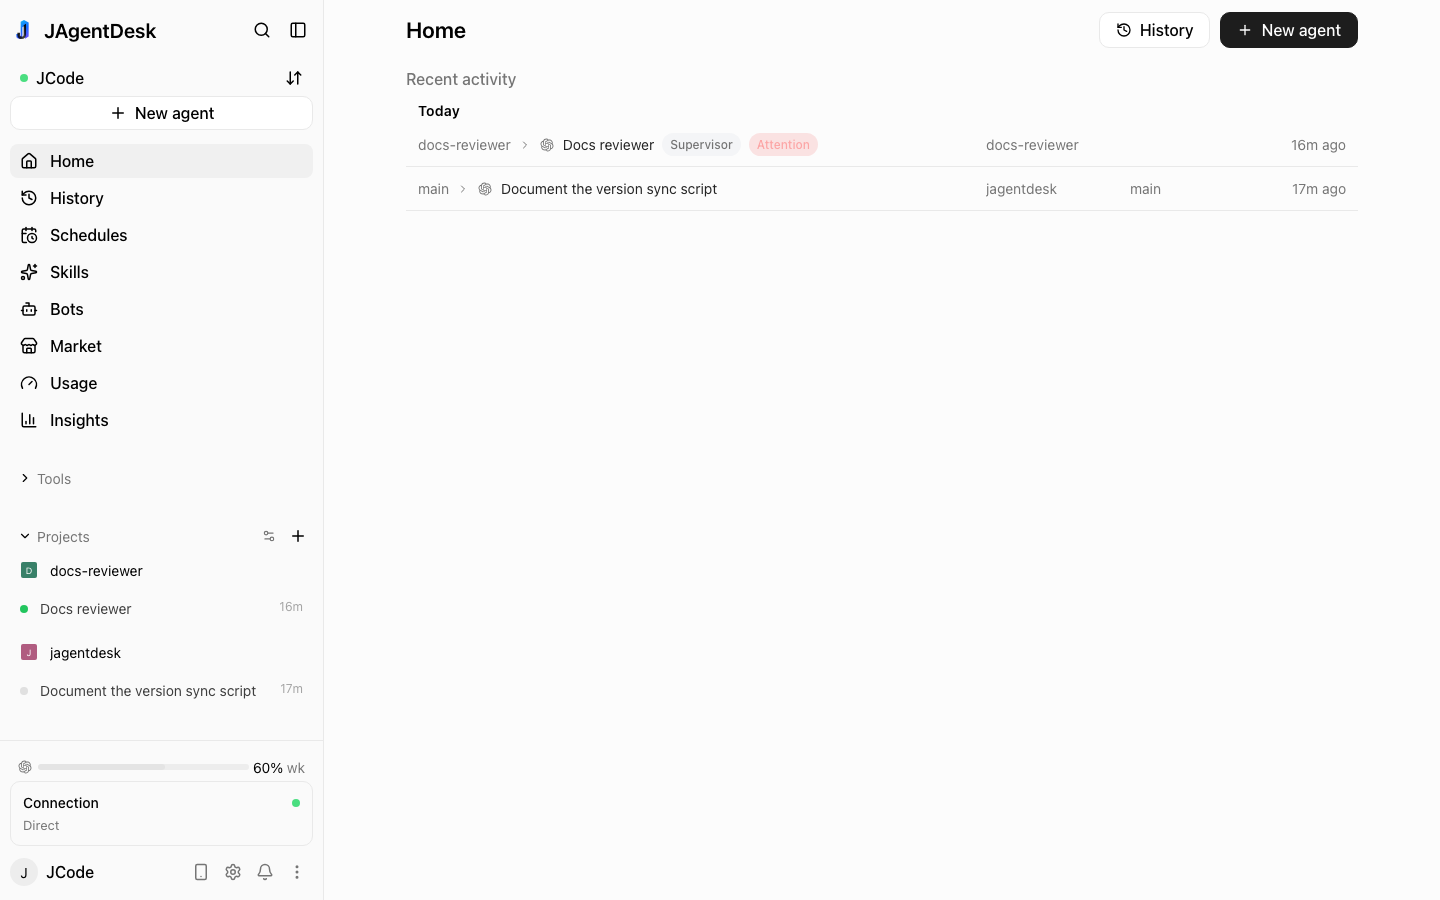
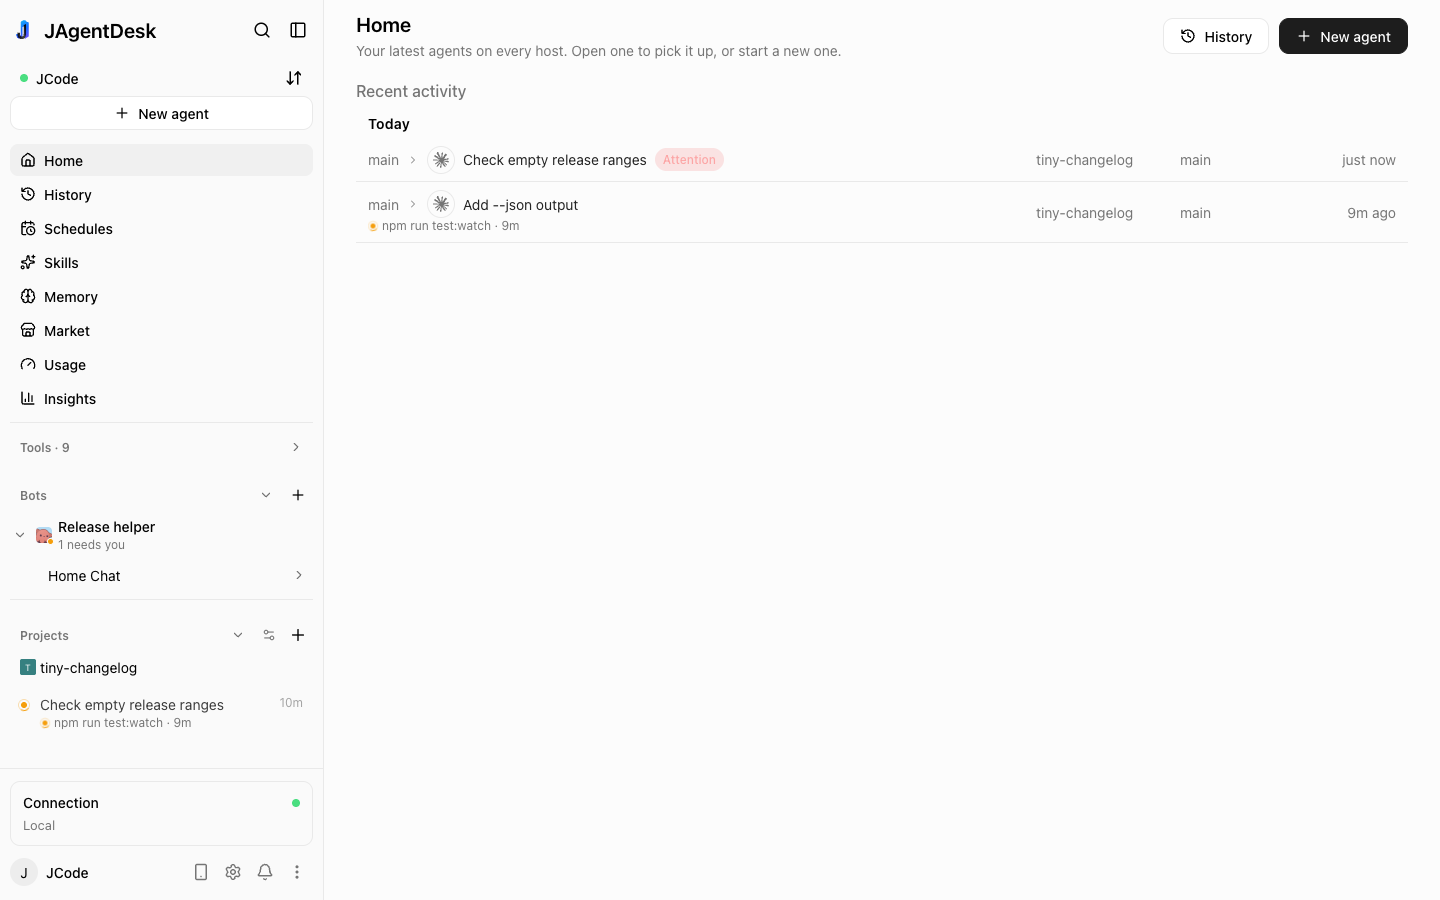
docs: README and docs for v0.12
README:
- Rewrite "Bots replace Team mode" for the v0.12 bots: sidebar section with
  mascots, status and chat/worker tree; the bot page (Home Chat with Home,
  Connectors, Chats and Files); items with quick answers; Look around and
  Tidy memory on by default and shown on every run; templates; Hand to
  bot; optional Review before done; phones; GitHub, GitLab, Telegram and
  Slack connectors; share by link (needs the relay Worker's R2 bucket).
- Feature list: tracker pills above the composer and background task
  details with live output; Settings by This device and Host; Memory in
  the built-in list.
- Add "New in v0.12.1" (Devices, Clusters, Data and Workbench crash fix).
- Retake home, chat, bots, plugins, phone-chat, phone-drawer and
  phone-settings; add background-task.png. All taken from the built web
  UI against an isolated daemon with real Claude Haiku turns in a small
  demo repository and a "Release helper" bot made through the app.

docs/product.md: current state is v0.12.1 (context-keeping agents, Memory,
Orca-style bots with connectors and sharing, background task details,
the pill rail, the Paseo 0.17.6 Settings map).

docs/README.md and CLAUDE.md: bots.md descriptions now cover the layout,
connectors and sharing; agent-lifecycle.md mentions background task
detail and output; the CLAUDE.md release-notes row points at v0.12.1.

diff --git a/README.md b/README.md
@@ -23,7 +23,8 @@ Jira, Argo CD, forges and devices, Bots, and connected hosts.
 ## What can it do?
 
 - **Run and steer agents remotely** — start agents, send prompts, watch replies and tool calls stream
-  in, interrupt, queue or steer, review diffs, all from desktop or phone.
+  in, interrupt, queue or steer, review diffs, all from desktop or phone. Background tasks, subagents and tasks show as
+  pills in one row above the composer; tap a background task for its command, status and live output.
 - **Many providers** — Claude Code, Codex, GitHub Copilot, OpenCode, Pi and OMP, ACP agents, bundled
   provider plugins (Antigravity, Muse Code, Hoplite, fx, goose, Hermes) and your own OpenAI- or
   Anthropic-compatible model servers. Model, effort and permission controls sit in the composer. Every
@@ -44,21 +45,31 @@ Jira, Argo CD, forges and devices, Bots, and connected hosts.
   token and cost insights.
 - **Built-in tools, each a plugin you can switch off per host** — Docker, Kubernetes, Databases, Argo CD,
   SSH servers, Remote tasks, Custom API providers, Jira, Forge Hub, Devices & simulators, Workbench,
-  Skills, Spec mode, Autonomous run, Insights, Session sharing and Agentic browser.
+  Skills, Memory, Spec mode, Autonomous run, Insights, Session sharing and Agentic browser.
 - **Orchestration** — Supervisor → Lead → Peer runtime; agents can list, create and message each other.
 - **Plugins and Marketplace** — extend the app with screens, sidebar items, panels, composer items,
   timeline rows and themes; install from the Marketplace, a folder, Git or npm. Paseo plugins are
   rebranded on install.
 - **Schedules, heartbeats and loops**, voice input, a CLI (`jagentdesk`), and a UI in nine languages.
+- **Settings by This device and Host** — what is stored on the device you hold (appearance, sidebar, chat, saved hosts) is
+  kept apart from each daemon's settings (providers, agents, plugins, pairing).
 
 ---
+
+## ✨ New in v0.12.1
+
+Devices, Clusters, Data and Workbench open again. In v0.12.0 their embedded agent chat crashed the screen with "Something went
+wrong — Error: Invariant failed" as soon as it showed. Details: **[docs/releases/v0.12.1.md](docs/releases/v0.12.1.md)**.
 
 ## ✨ New in v0.12.0
 
 Bots rebuilt the way Orca does them — a Bots section in the sidebar, a bot page with its Home Chat and activity panel, workers
 in their own worktrees, items with quick answers, templates and mascots, on desktop and phones — reachable from GitHub, GitLab
-and Telegram and shareable by link. Background tasks open into a detail view with live output. Details:
+and Telegram and shareable by link. Background tasks open into a detail view with live output, and the trackers above the
+composer are one row of pills. Settings are organised by This device and Host. Details:
 **[docs/releases/v0.12.0.md](docs/releases/v0.12.0.md)**.
+
+![A background task's details with its live output](docs/images/background-task.png)
 
 ## ✨ New in v0.11.1
 
@@ -87,7 +98,7 @@ your plan usage, the connection card and Pair device / Settings / Notifications 
 workspace drills the sidebar into Agents, Terminals, Files and Changes. ⌘\ / Ctrl+\ hides it. Gumloop
 is the default theme; the other colour themes in Settings → Appearance keep the classic layout.
 
-![A Codex agent's reply with its tool calls grouped under it](docs/images/chat.png)
+![An agent's reply with its tool calls grouped under it](docs/images/chat.png)
 
 Completed turns fold behind a **"Worked for …"** summary and tool calls group under the reply. The
 composer carries the model, effort and permission controls, skills from the `/` menu, and a fullscreen
@@ -96,12 +107,12 @@ mode. Changes shows each edit as a selectable diff.
 ![The Changes view with the agent's edit](docs/images/changes.png)
 
 On phones there is no tab bar any more: the sidebar opens as a drawer, panes open as sheets, and
-Settings are grouped tiles.
+Settings are grouped tiles under This device and Host.
 
 <p>
   <img src="docs/images/phone-drawer.png" alt="Phone: the drawer" width="260" />
   <img src="docs/images/phone-chat.png" alt="Phone: a chat with the agent's reply" width="260" />
-  <img src="docs/images/phone-settings.png" alt="Phone: Settings as tiles" width="260" />
+  <img src="docs/images/phone-settings.png" alt="Phone: Settings under This device and Host" width="260" />
 </p>
 
 ### Built-in plugins with a switch per host
@@ -114,12 +125,32 @@ stays. Autonomous run, Session sharing and Agentic browser are off until you tur
 
 ### Bots replace Team mode
 
-A bot has its own identity, chat, items, memory, schedules and settings. It hands real work to worker
-agents in their own worktrees, and a BA / Tester / Pentester cross-review checks the result before the bot
-reports back. When it needs you, the item asks with quick answers. Bots can also talk in Slack through the
-relay.
+A bot is a long-lived assistant with its own soul (SOUL.md), memory, chats, items, automations and settings. Since v0.12.0
+bots look and work the way Orca's do, on desktop and on phones.
 
-![A bot answering in its chat](docs/images/bots.png)
+![A bot's Home Chat with its Home panel](docs/images/bots.png)
+
+- **Bots in the sidebar**, above Projects: each bot with its mascot, a status line (Needs you, Working, Paused, Idle) and its
+  chats and workers nested underneath. The `+` menu has New bot, Templates and From a link.
+- **The bot page** is its Home Chat with a panel beside it: **Home** (Needs you first, items by status, Automations,
+  Suggestions), **Connectors**, **Chats** (each chat with its workers) and **Files** (the bot's home folder).
+- **How it works:** the bot plans, starts worker agents in their own worktrees for code changes and is woken when a worker
+  finishes or asks. Work is tracked as items; an item that needs you asks with quick answers and a recommended choice.
+- **Look around** reads the bot's projects and connected apps and suggests what to do next; **Tidy memory** merges and
+  archives old memory lines overnight. Both are on by default for bots on Claude or Codex, and every run shows in the bot's
+  chat and under Automations; turn either off in the bot's settings.
+- **Templates** start from 11 ready-made bots (pull request review, dependency updates, release readiness, release notes and
+  more). **Hand to bot** gives a workspace to a bot with a note on what to do.
+- **Review before done** _(optional, off by default)_: BA, Tester and Pentester reviews must pass before an item is done.
+- **Phones:** Bots in the drawer, the bot page with its panel as a sheet, quick replies to Needs you and long-press item
+  actions.
+- **Connectors:** reach a bot from GitHub and GitLab (webhooks), Telegram and Slack. Mention the bot and it answers in the
+  thread. Events travel through your own relay Worker; tokens stay in the daemon's secret store.
+- **Share by link:** the bot's soul, skills, automations and, if you pick them, memory notes go into a bundle encrypted on
+  your machine; the key lives only in the link. Sharing needs an R2 bucket on your relay Worker (see the
+  [v0.12.0 upgrade notes](docs/releases/v0.12.0.md#upgrade-notes)).
+
+Details: [docs/bots.md](docs/bots.md).
 
 ### Encrypted relay alongside Tailscale
 

diff --git a/docs/product.md b/docs/product.md
@@ -68,15 +68,18 @@ Anyone who builds software:
 3. **The daemon as infrastructure.** Server/client architecture enables deployment anywhere.
 4. **Open source outlasts funding.** Open source communities are resilient. Contributors become advocates.
 
-## Current state (v0.10.0)
+## Current state (v0.12.1)
 
 - Desktop (Electron), mobile (iOS/Android, Expo 57 / React Native 0.86), web, CLI
 - Built-in providers: Claude Code (Agent SDK), Codex (app-server), GitHub Copilot (ACP), OpenCode, Pi, OMP. More ship as bundled provider plugins, plus a one-click ACP catalog and custom ACP or API providers ([providers.md](providers.md), [custom-providers.md](custom-providers.md))
-- Gumloop look: one desktop sidebar, a drawer on phones, and Settings grouped into tiles on phones ([themes.md](themes.md))
-- Features are built-in plugins that each host turns on or off under Settings → host → Plugins: Docker, Kubernetes, Databases, Argo CD, SSH servers, Remote tasks, Custom API providers, Jira, Forge Hub, Devices & simulators, Workbench, Skills, Spec mode, Insights, and Bots. Autonomous run, Session sharing and Agentic browser start off ([builtin-plugins.md](builtin-plugins.md))
+- Gumloop look: one desktop sidebar, a drawer on phones, and Settings grouped into tiles on phones ([themes.md](themes.md)). Settings follow Paseo 0.17.6's map: **This device** (stored on the device you hold) and **Host** (the daemon's settings)
+- Features are built-in plugins that each host turns on or off under Settings → Host → Plugins: Docker, Kubernetes, Databases, Argo CD, SSH servers, Remote tasks, Custom API providers, Jira, Forge Hub, Devices & simulators, Workbench, Skills, Spec mode, Insights, Memory and Bots. Autonomous run, Session sharing and Agentic browser start off ([builtin-plugins.md](builtin-plugins.md))
 - Remote access over the embedded Tailscale listener or the end-to-end encrypted relay ([relay.md](relay.md)). New devices pair by comparing a six-digit code on both screens ([permissions.md](permissions.md#device-pairing))
 - Connected hosts: a daemon can pair with another daemon and run agents there ([connected-hosts.md](connected-hosts.md))
-- Bots: long-lived assistants that delegate work and review results, including from Slack ([bots.md](bots.md))
+- Agents keep their context: switch an agent to another provider mid-conversation with a structured handoff, fail over when a provider hits its usage limit, start children on other providers ([cross-provider-continuity.md](cross-provider-continuity.md)), and re-ground after compaction with cited lessons that become project rules only after approval ([durable-context.md](durable-context.md))
+- Memory: project and global memories agents save and recall through local full-text search, with no extra model calls ([memory.md](memory.md))
+- Bots laid out and run like Orca's: a Bots section in the sidebar, a bot page with its Home Chat and a Home · Connectors · Chats · Files panel, workers in their own worktrees, items with quick answers, Look around and Tidy memory, templates and Hand to bot. Bots are reachable from GitHub, GitLab, Telegram and Slack through the relay, and shareable by link once the relay Worker has its R2 bucket ([bots.md](bots.md))
+- Background work: trackers above the composer (background tasks, subagents, tasks, plugin pills) are compact pills in one row; a background task opens into a detail view with live output for Claude and OpenCode ([agent-lifecycle.md](agent-lifecycle.md))
 - Usage shows per-account quotas from usage-source plugins; Insights shows usage history and costs
 - Idle agent runtimes are released after an hour and resume on demand; agent-to-agent messages queue by default ([agent-lifecycle.md](agent-lifecycle.md))
 - Terminals survive daemon restarts and replay their history on reattach ([terminal-worker.md](terminal-worker.md))

diff --git a/CLAUDE.md b/CLAUDE.md
@@ -32,7 +32,7 @@ At the start of non-trivial work, list `docs/` and skim anything relevant to the
 | [docs/orchestration.md](docs/orchestration.md)                         | ORC (Supervisor → Lead → Peer) — `/orc` entry point, roles, limits, settings                                                           |
 | [docs/cross-provider-continuity.md](docs/cross-provider-continuity.md) | Session ledger, provider switch handoff and resume, usage-limit failover, child agents on other providers                              |
 | [docs/durable-context.md](docs/durable-context.md)                     | Compaction signals, re-grounding block, recitation, 80 % ledger nudge, Claude compact hooks, Rollover, Capture lessons                 |
-| [docs/bots.md](docs/bots.md)                                           | Bots daemon lifecycle, SQLite homes/items/rooms, permission boundary, triggers and client RPC contract                                 |
+| [docs/bots.md](docs/bots.md)                                           | Bots like Orca's: SQLite homes/items, work flow, permissions, triggers, GitHub/GitLab/Telegram/Slack connectors, sharing, RPCs         |
 | [docs/coding-standards.md](docs/coding-standards.md)                   | Type hygiene, error handling, state design, React patterns, file organization                                                          |
 | [docs/design.md](docs/design.md)                                       | Design system — tokens, buttons, hierarchy, density, alignment rails, states, what's forbidden                                         |
 | [docs/themes.md](docs/themes.md)                                       | Gumloop and classic shells, theme-to-shell mapping, stored-theme migration, sidebar and drawer structure                               |
@@ -82,7 +82,7 @@ At the start of non-trivial work, list `docs/` and skim anything relevant to the
 | [docs/ad-hoc-daemon-testing.md](docs/ad-hoc-daemon-testing.md)         | Isolated in-process daemon test harness                                                                                                |
 | [docs/browser-capture-harness.md](docs/browser-capture-harness.md)     | Real-Electron browser screenshot harness and compositor-surface gotcha                                                                 |
 | [docs/android.md](docs/android.md)                                     | App variants, local/cloud builds, EAS workflows, version codes, F-Droid source builds and store metadata                               |
-| [docs/releases/v0.10.0.md](docs/releases/v0.10.0.md)                   | Release notes for v0.10.0                                                                                                              |
+| [docs/releases/v0.12.1.md](docs/releases/v0.12.1.md)                   | Release notes for v0.12.1; older versions sit next to it in `docs/releases/`                                                           |
 | [SECURITY.md](SECURITY.md)                                             | Relay threat model, E2E encryption, DNS rebinding, agent auth                                                                          |
 | [public-docs/security.md](public-docs/security.md)                     | Public security guide — architecture, connection methods, relay encryption, best practices                                             |
 

diff --git a/docs/README.md b/docs/README.md
@@ -5,7 +5,7 @@ release notes live in [`releases/`](releases/v0.12.1.md).
 
 ## Product
 
-- [product.md](product.md) — what JAgentDesk is, who it is for, what ships in this version.
+- [product.md](product.md) — what JAgentDesk is, who it is for, what ships in v0.12.1.
 - [glossary.md](glossary.md) — the terms to use; the UI label wins.
 - [releases/v0.12.1.md](releases/v0.12.1.md) — release notes for v0.12.1.
 - [releases/v0.12.0.md](releases/v0.12.0.md) — release notes for v0.12.0.
@@ -18,11 +18,11 @@ release notes live in [`releases/`](releases/v0.12.1.md).
 
 - [architecture.md](architecture.md) — packages, daemon, clients, WebSocket API and data flow.
 - [data-model.md](data-model.md) — files under `$JAGENTDESK_HOME`, schemas, atomic writes, config keys.
-- [agent-lifecycle.md](agent-lifecycle.md) — agent states, parents and children, archive, idle release, background work.
+- [agent-lifecycle.md](agent-lifecycle.md) — agent states, parents and children, archive, idle release, background work and its detail and live output.
 - [orchestration.md](orchestration.md) — Supervisor → Lead → Peer (ORC).
 - [cross-provider-continuity.md](cross-provider-continuity.md) — session ledger, provider switches, usage-limit failover, children on other providers.
 - [durable-context.md](durable-context.md) — compaction signals, re-grounding after compaction, recitation, ledger nudge, rollover, capture lessons.
-- [bots.md](bots.md) — Bots: daemon lifecycle, storage, permissions, triggers, Slack.
+- [bots.md](bots.md) — Bots laid out like Orca's (sidebar section, bot page with Home Chat and its Home · Connectors · Chats · Files panel): storage, work flow, permissions, triggers, GitHub/GitLab/Telegram/Slack connectors, sharing by link.
 - [timeline-sync.md](timeline-sync.md) — how chat reaches clients and the replica cache.
 - [terminal-worker.md](terminal-worker.md) — the persistent terminal worker.
 - [terminal-performance.md](terminal-performance.md) — terminal latency, coalescing and backpressure.
